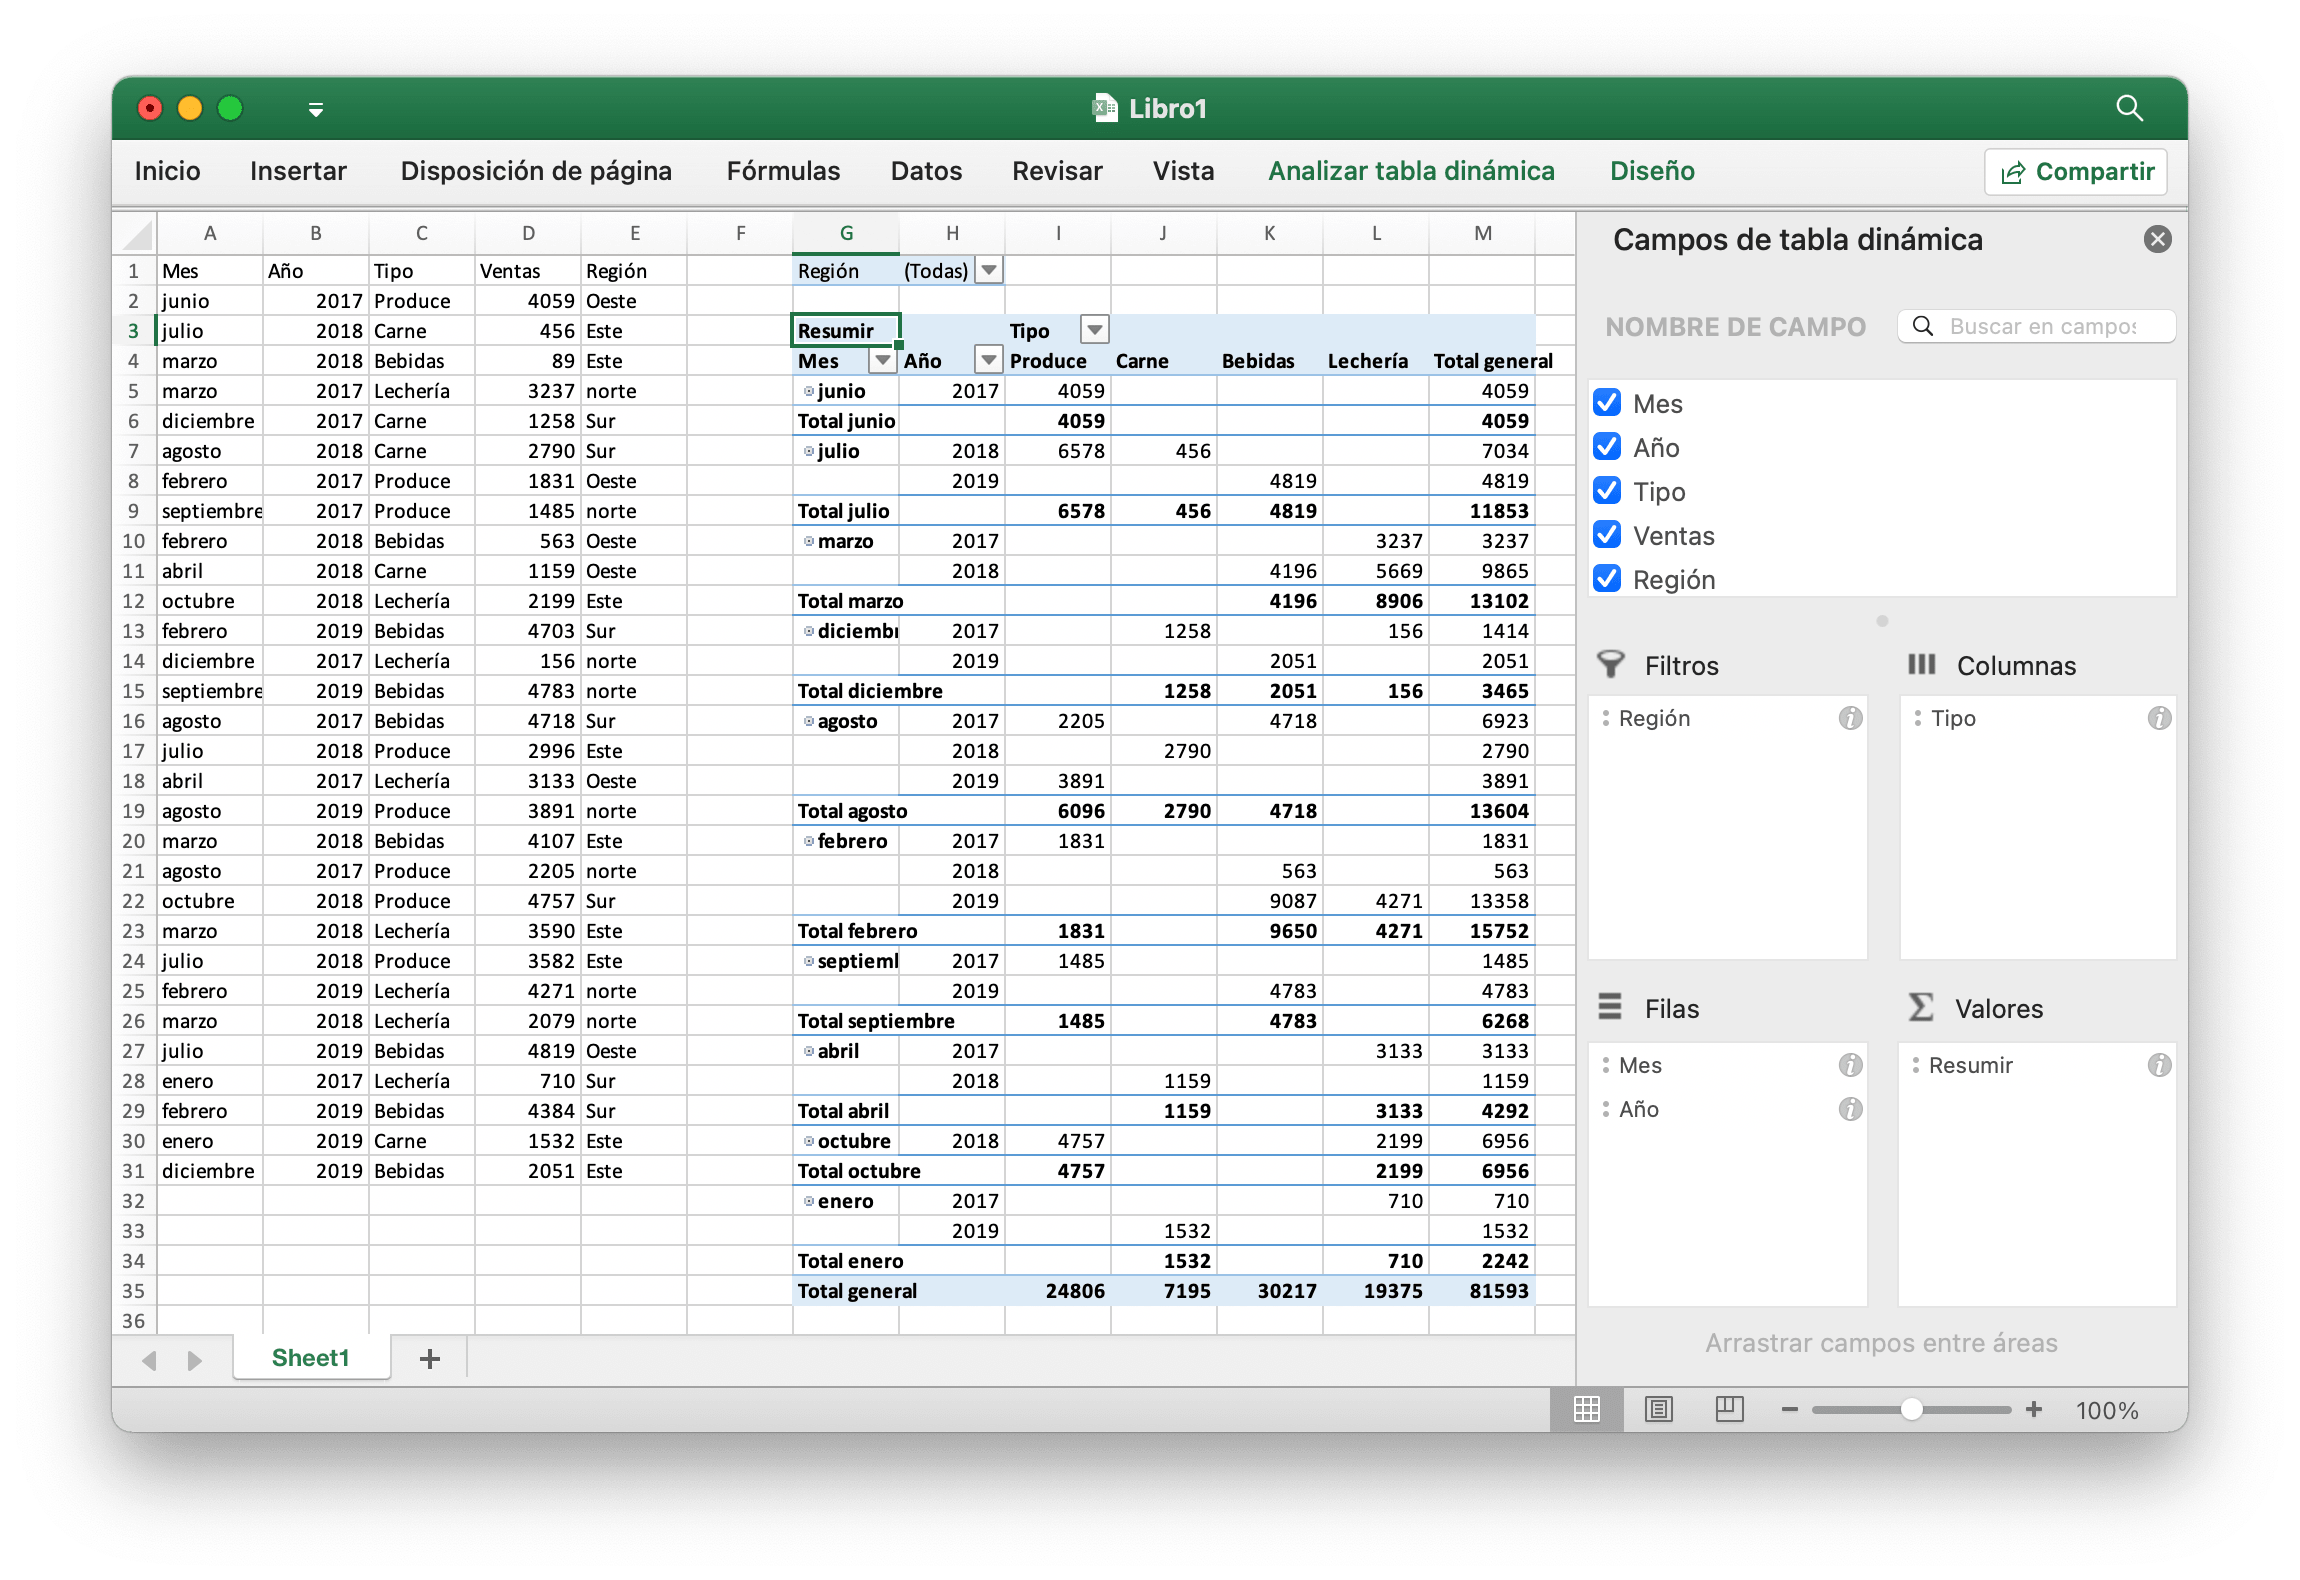
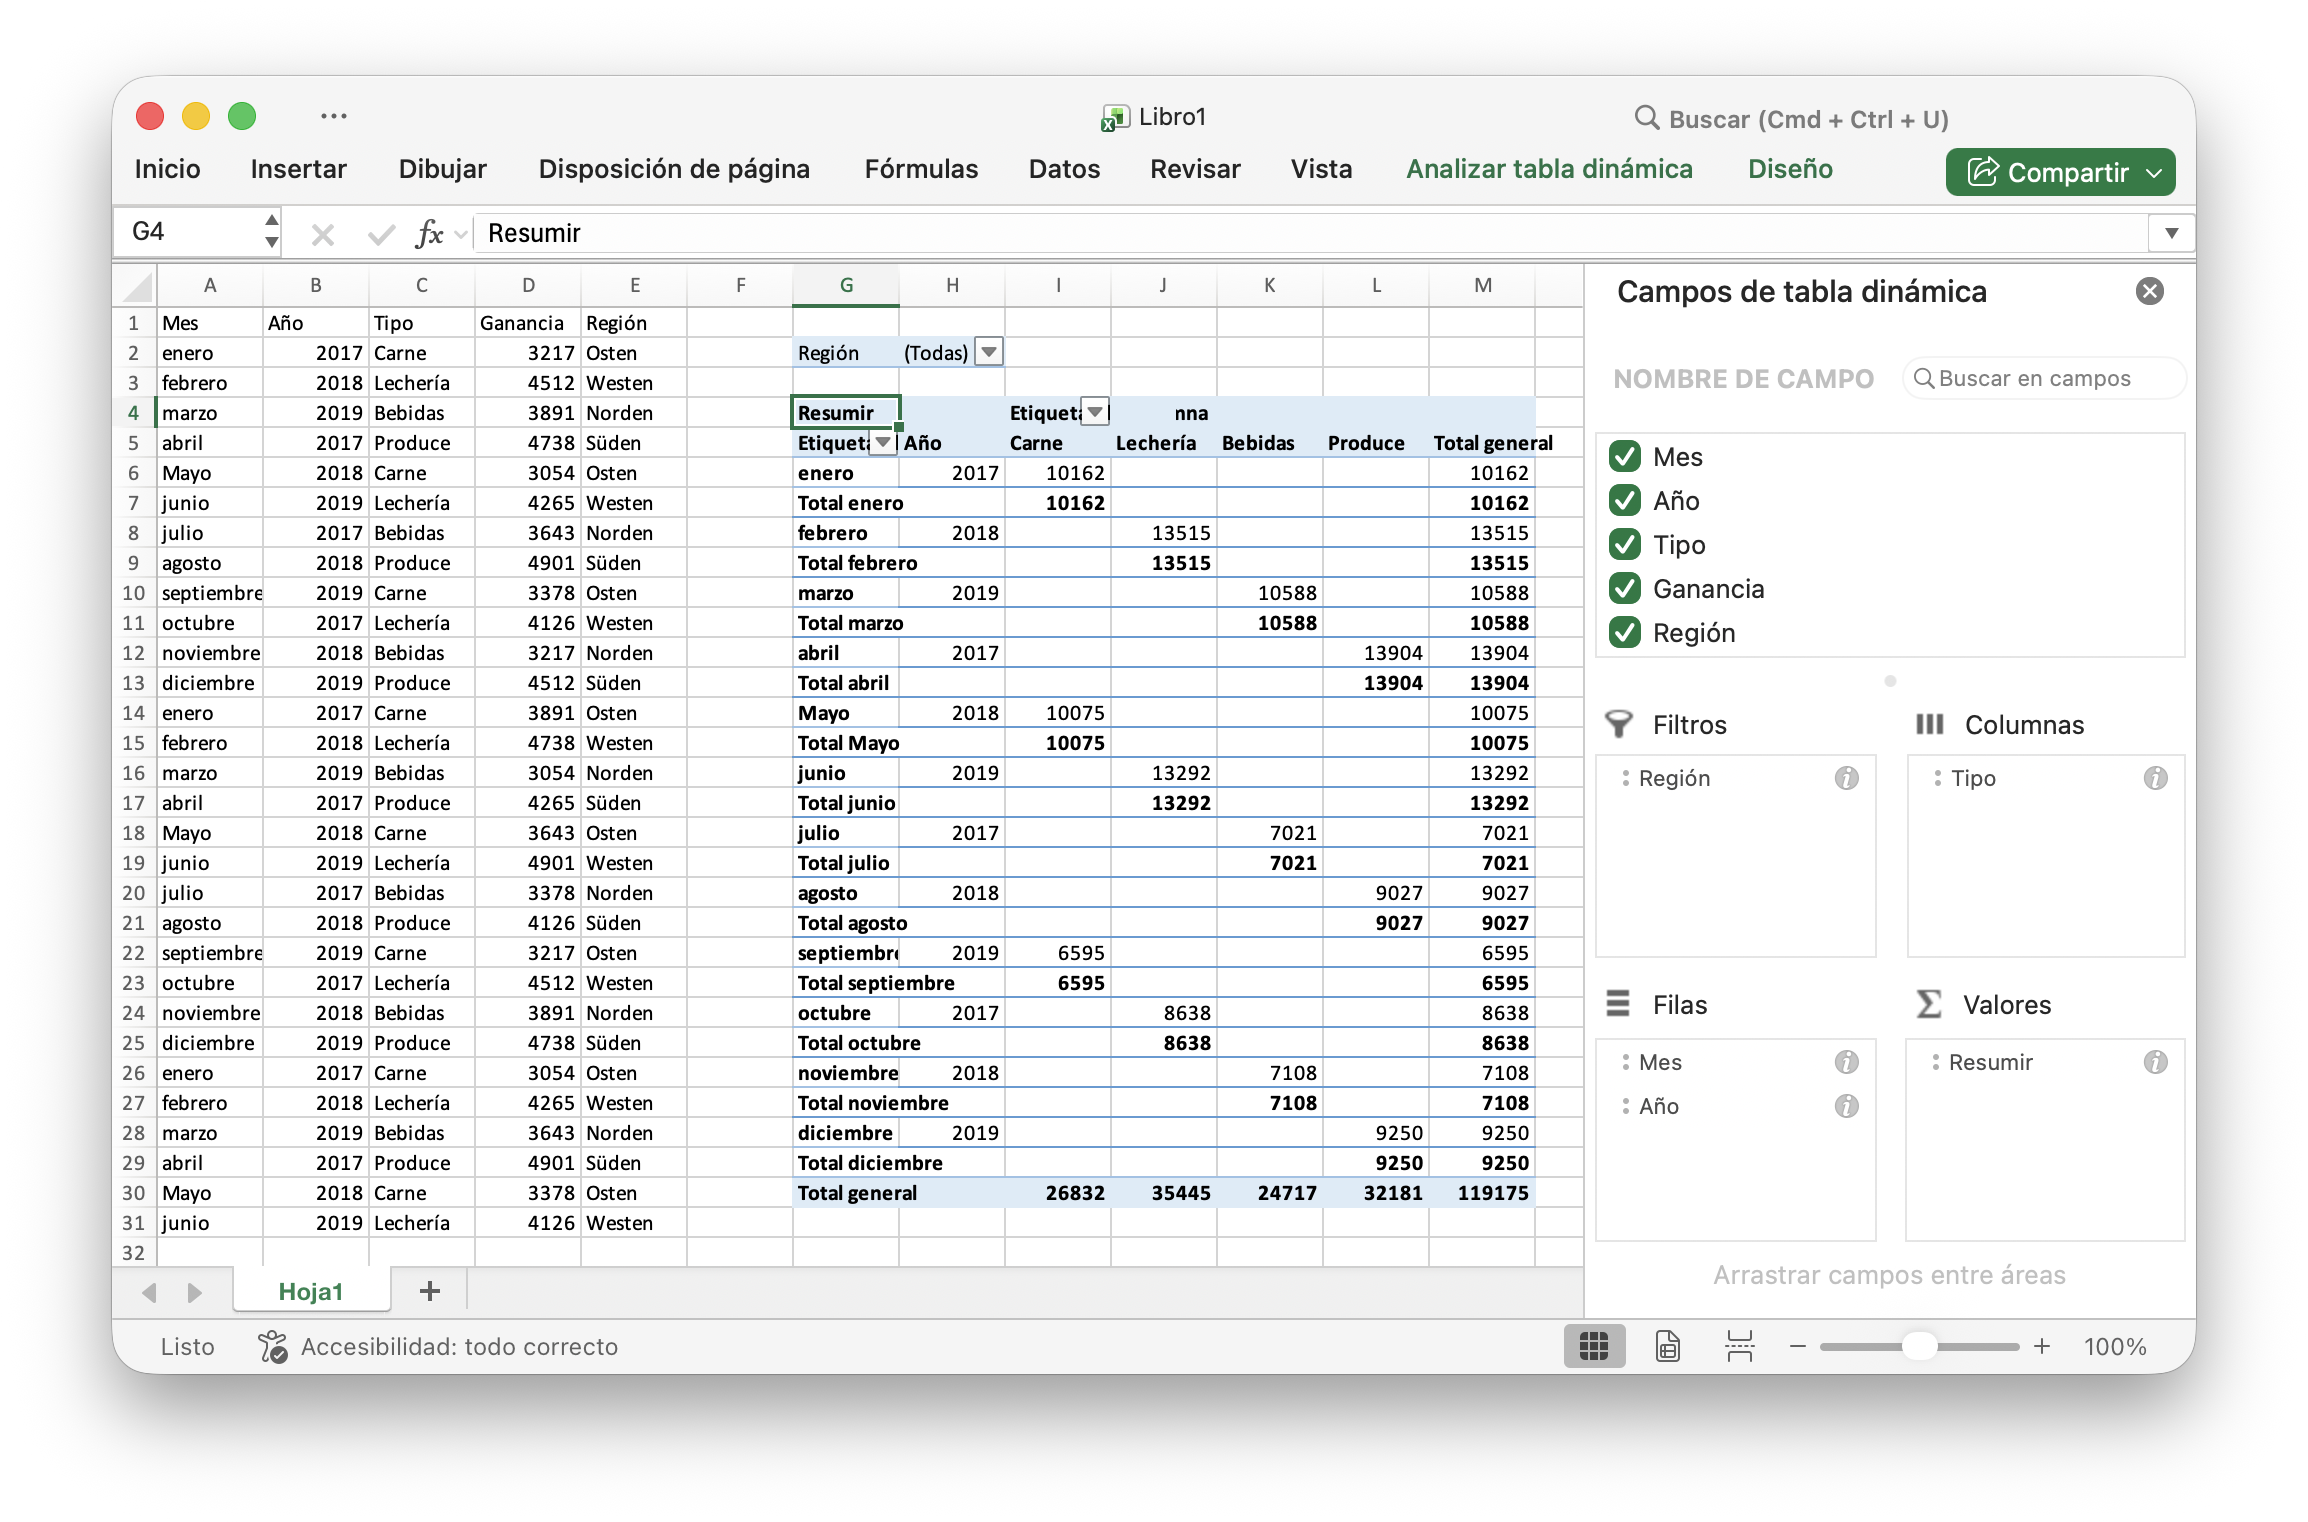
Update es version docs for new SelectedItems fields in PivotTableOptions and SlicerOptions data type
- This related for xuri/excelize#2154, and xuri/excelize#2271

diff --git a/es/pivot.md b/es/pivot.md
@@ -55,6 +55,7 @@ type PivotTableField struct {
     Subtotal        string
     DefaultSubtotal bool
     NumFmt          int
+    SelectedItems   []string
 }
 ```
 
@@ -76,6 +77,8 @@ type PivotTableField struct {
 
 `Name` especifica el nombre del campo de datos. Se permite un máximo de `255` caracteres en el nombre del campo de datos, el exceso de caracteres se truncará.
 
+`SelectedItems` especifica los elementos seleccionados por defecto en un campo de tabla dinámica. Los elementos seleccionados deben ser valores dentro del rango de celdas al que hace referencia dicho campo.
+
 ## Crear una tabla dinámica {#AddPivotTable}
 
 ```go
@@ -84,16 +87,15 @@ func (f *File) AddPivotTable(opts *PivotTableOptions) error
 
 AddPivotTable proporciona el método para agregar una tabla dinámica mediante las opciones de tabla dinámica dadas.
 
-Por ejemplo, cree una tabla dinámica en el área `Sheet1!$G$2:$M$34` con la región `Sheet1!$A$1:$E$31` como fuente de datos, resuma por suma para las ventas:
+Por ejemplo, cree una tabla dinámica en el área `Hoja1!G4:M30` con la región `Hoja1!A1:E31` como fuente de datos, resuma por suma para las ventas:
 
-<p align="center"><img width="1150" src="./images/pivot_table_01.png" alt="crear una tabla dinámica con excelize usando Go"></p>
+<p align="center"><img width="1154" src="./images/pivot_table_01.png" alt="crear una tabla dinámica con excelize usando Go"></p>
 
 ```go
 package main
 
 import (
     "fmt"
-    "math/rand"
 
     "github.com/xuri/excelize/v2"
 )
@@ -105,34 +107,48 @@ func main() {
             fmt.Println(err)
         }
     }()
-    // Crea algunos datos en una hoja de trabajo
+    if err := f.SetSheetName("Sheet1", "Hoja1"); err != nil {
+        fmt.Println(err)
+        return
+    }
+    // Erstellen Sie einige Daten in einem Arbeitsblatt
     month := []string{"enero", "febrero", "marzo", "abril", "Mayo", "junio",
         "julio", "agosto", "septiembre", "octubre", "noviembre", "diciembre"}
     year := []int{2017, 2018, 2019}
     types := []string{"Carne", "Lechería", "Bebidas", "Produce"}
-    region := []string{"Este", "Oeste", "norte", "Sur"}
-    f.SetSheetRow("Sheet1", "A1", &[]string{"Mes", "Año", "Tipo", "Ventas", "Región"})
+    revenue := []int{3217, 4512, 3891, 4738, 3054, 4265, 3643, 4901, 3378, 4126}
+    region := []string{"Osten", "Westen", "Norden", "Süden"}
+    if err := f.SetSheetRow(
+        "Hoja1", "A1", &[]string{"Mes", "Año", "Tipo", "Ganancia", "Región"},
+    ); err != nil {
+        fmt.Println(err)
+        return
+    }
     for row := 2; row < 32; row++ {
-        f.SetCellValue("Sheet1", fmt.Sprintf("A%d", row), month[rand.Intn(12)])
-        f.SetCellValue("Sheet1", fmt.Sprintf("B%d", row), year[rand.Intn(3)])
-        f.SetCellValue("Sheet1", fmt.Sprintf("C%d", row), types[rand.Intn(4)])
-        f.SetCellValue("Sheet1", fmt.Sprintf("D%d", row), rand.Intn(5000))
-        f.SetCellValue("Sheet1", fmt.Sprintf("E%d", row), region[rand.Intn(4)])
+        f.SetCellValue("Hoja1", fmt.Sprintf("A%d", row), month[(row-2)%len(month)])
+        f.SetCellValue("Hoja1", fmt.Sprintf("B%d", row), year[(row-2)%len(year)])
+        f.SetCellValue("Hoja1", fmt.Sprintf("C%d", row), types[(row-2)%len(types)])
+        f.SetCellValue("Hoja1", fmt.Sprintf("D%d", row), revenue[(row-2)%len(revenue)])
+        f.SetCellValue("Hoja1", fmt.Sprintf("E%d", row), region[(row-2)%len(region)])
     }
     if err := f.AddPivotTable(&excelize.PivotTableOptions{
-        DataRange:       "Sheet1!A1:E31",
-        PivotTableRange: "Sheet1!G2:M34",
+        DataRange:       "Hoja1!A1:E31",
+        PivotTableRange: "Hoja1!G4:M30",
         Rows: []excelize.PivotTableField{
-            {Data: "Mes", DefaultSubtotal: true}, {Data: "Año"}},
+            {Data: "Mes", DefaultSubtotal: true}, {Data: "Año"},
+        },
         Filter: []excelize.PivotTableField{
-            {Data: "Región"}},
+            {Data: "Región"},
+        },
         Columns: []excelize.PivotTableField{
-            {Data: "Tipo", DefaultSubtotal: true}},
+            {Data: "Tipo", DefaultSubtotal: true},
+        },
         Data: []excelize.PivotTableField{
-            {Data: "Ventas", Name: "Resumir", Subtotal: "Sum"}},
+            {Data: "Ganancia", Name: "Resumir", Subtotal: "Sum"},
+        },
         RowGrandTotals: true,
         ColGrandTotals: true,
-        ShowDrill:      true,
+        ShowDrill:      false,
         ShowRowHeaders: true,
         ShowColHeaders: true,
         ShowLastColumn: true,

diff --git a/es/data.md b/es/data.md
@@ -80,24 +80,28 @@ DeleteDataValidation elimina la validación de datos por el nombre de la hoja de
 
 ```go
 type SlicerOptions struct {
-    Name          string
-    Table         string
-    Cell          string
-    Caption       string
-    Macro         string
-    Width         uint
-    Height        uint
-    DisplayHeader *bool
-    ItemDesc      bool
-    Format        GraphicOptions
+    Name            string
+    Cell            string
+    TableSheet      string
+    TableName       string
+    Caption         string
+    Macro           string
+    Width           uint
+    Height          uint
+    DisplayHeader   *bool
+    ItemDesc        bool
+    Format          GraphicOptions
+    SelectedItems   []string
 }
 ```
 
 `Name` especifica el nombre de la segmentación de datos; debe ser un nombre de campo existente de la tabla o tabla dinámica dada; esta configuración es obligatoria.
 
-`Table` especifica el nombre de la tabla o tabla dinámica; esta configuración es obligatoria.
-
 `Cell` especifica que la celda superior izquierda coordina la posición para insertar la segmentación; esta configuración es obligatoria.
+
+`TableSheet` especifica el nombre de la hoja de cálculo de la tabla o tabla dinámica; esta configuración es obligatoria.
+
+`TableName` especifica el nombre de la tabla o tabla dinámica; esta configuración es obligatoria.
 
 `Caption` especifica el título de la segmentación de datos; esta configuración es opcional.
 
@@ -112,6 +116,8 @@ type SlicerOptions struct {
 `ItemDesc` especifica la clasificación de elementos descendente (Z-A), esta configuración es opcional y la configuración predeterminada es `false` (representa ascendente).
 
 `Format` especifica el formato de la segmentación, esta configuración es opcional.
+
+`SelectedItems` se utiliza para especificar los elementos seleccionados por defecto en un segmentador de datos. Actualmente, solo es compatible con segmentadores de datos en tablas dinámicas. Los elementos seleccionados deben estar dentro del rango de elementos seleccionados en la tabla dinámica. Si la tabla dinámica se crea mediante la función [`AddPivotTable`](pivot.md#AddPivotTable), también se debe especificar el rango de elementos seleccionados para ese mismo campo al crear la tabla dinámica.
 
 ```go
 func (f *File) AddSlicer(sheet string, opts *SlicerOptions) error
